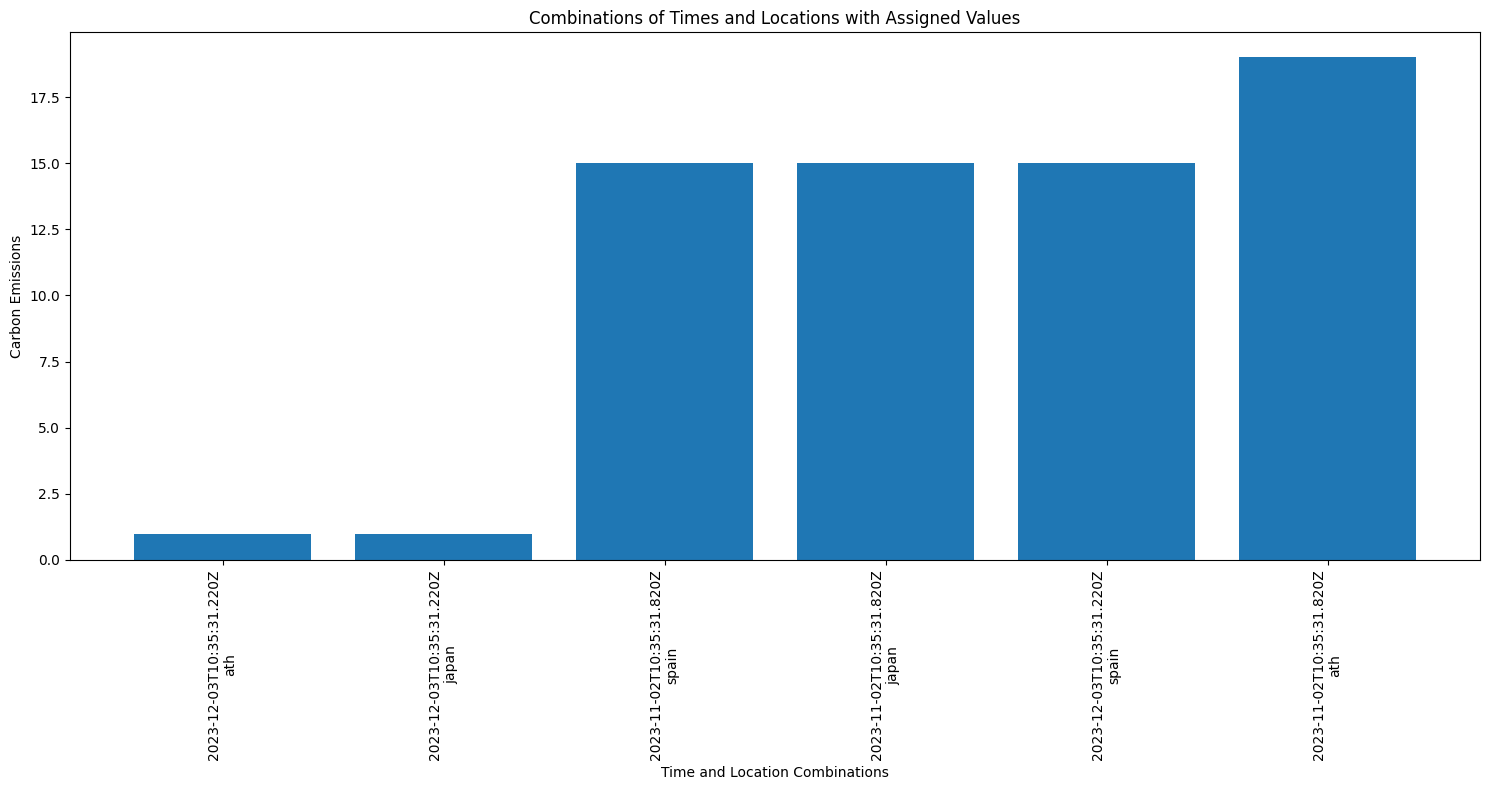
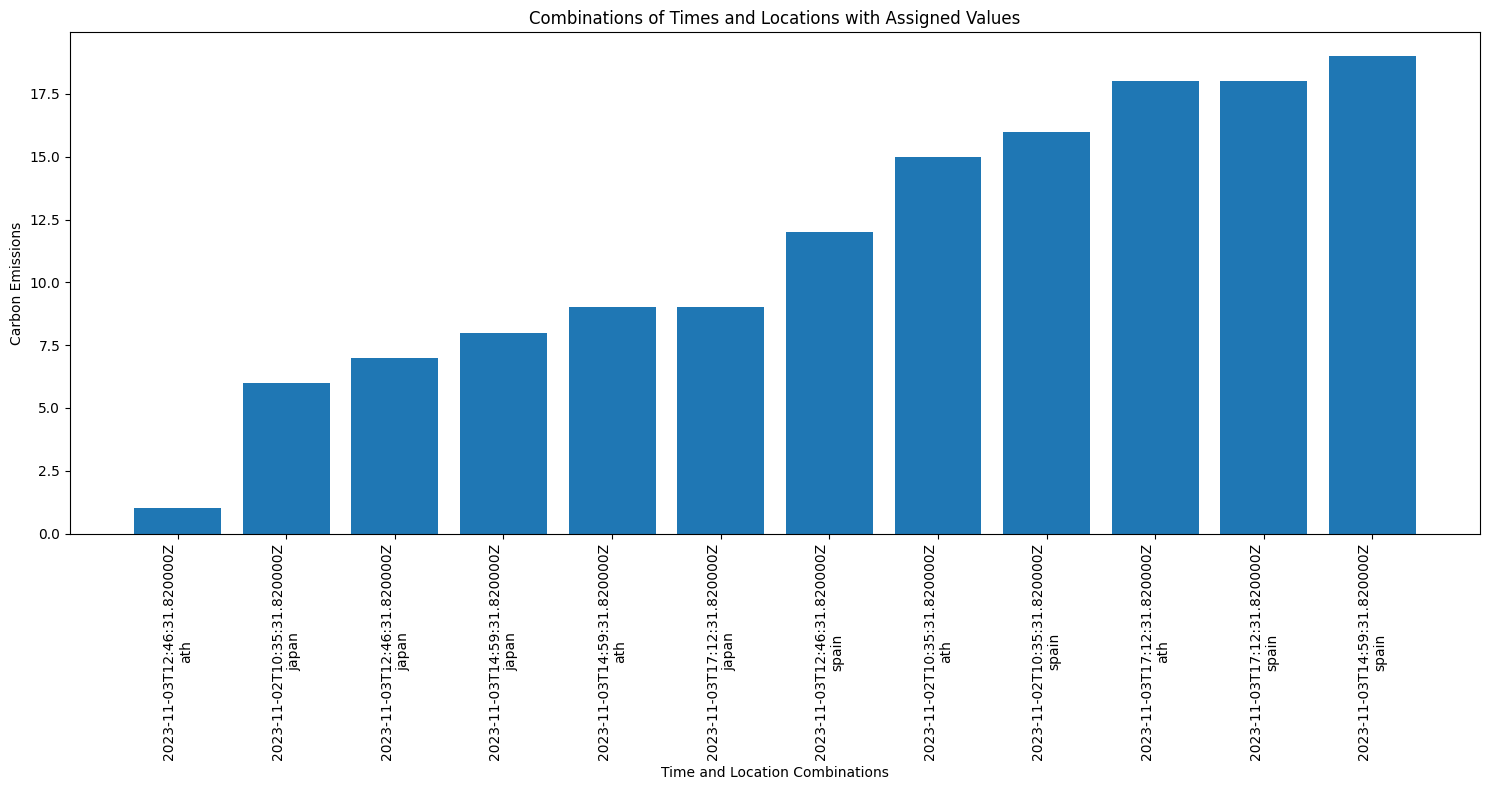
added sampling functionality

diff --git a/Code/if-optimisation-models/src/lib/visualizer/test.py b/Code/if-optimisation-models/src/lib/visualizer/test.py
@@ -1,0 +1,55 @@
+from datetime import datetime, timedelta
+import itertools
+import random
+
+def calculate_subrange_allocation(timestamp_ranges, sampling):
+    durations = []
+    for range_str in timestamp_ranges:
+        start_str, end_str = range_str.split(' - ')
+        # Remove 'Z' and parse
+        start = datetime.fromisoformat(start_str.rstrip('Z'))
+        end = datetime.fromisoformat(end_str.rstrip('Z'))
+        durations.append(end - start)
+    total_duration = sum(durations, timedelta())
+    allocations = [int(round(sampling * (duration / total_duration))) for duration in durations]
+    
+    # Adjust allocations to ensure the sum equals sampling
+    while sum(allocations) > sampling:
+        max_index = allocations.index(max(allocations))
+        allocations[max_index] -= 1
+    while sum(allocations) < sampling:
+        min_index = allocations.index(min(allocations))
+        allocations[min_index] += 1
+
+    return allocations
+
+def split_timestamp_ranges(timestamp_ranges, allocations):
+    all_sub_ranges = []
+    for (start_str, end_str), allocation in zip((range_str.split(' - ') for range_str in timestamp_ranges), allocations):
+        # Remove 'Z' and parse
+        start = datetime.fromisoformat(start_str.rstrip('Z'))
+        end = datetime.fromisoformat(end_str.rstrip('Z'))
+        sub_ranges = []
+        for i in range(allocation):
+            delta = (end - start) / allocation
+            sub_start = start + delta * i
+            sub_end = sub_start + delta
+            # Append 'Z' to indicate UTC
+            sub_ranges.append(f"{sub_start.isoformat()}Z - {sub_end.isoformat()}Z")
+        all_sub_ranges.extend(sub_ranges)
+    return all_sub_ranges
+
+# Example usage in your main code block
+sampling = 4  # Define your sampling variable based on your requirements
+times = ["2023-11-02T10:35:31.820Z - 2023-11-02T11:35:31.820Z", "2023-11-03T12:46:31.820Z - 2023-11-03T19:25:31.820Z"]
+
+allocations = calculate_subrange_allocation(times, sampling)
+print(allocations)
+all_sub_ranges = split_timestamp_ranges(times, allocations)
+print(all_sub_ranges)
+
+# Select an individual timestamp from each sub-range
+individual_times = [sub_range.split(' - ')[0] for sub_range in all_sub_ranges]  # Selects the start of each sub-range
+print(individual_times)
+
+# Now, individual_times contains individual timestamps selected from the sub-ranges
